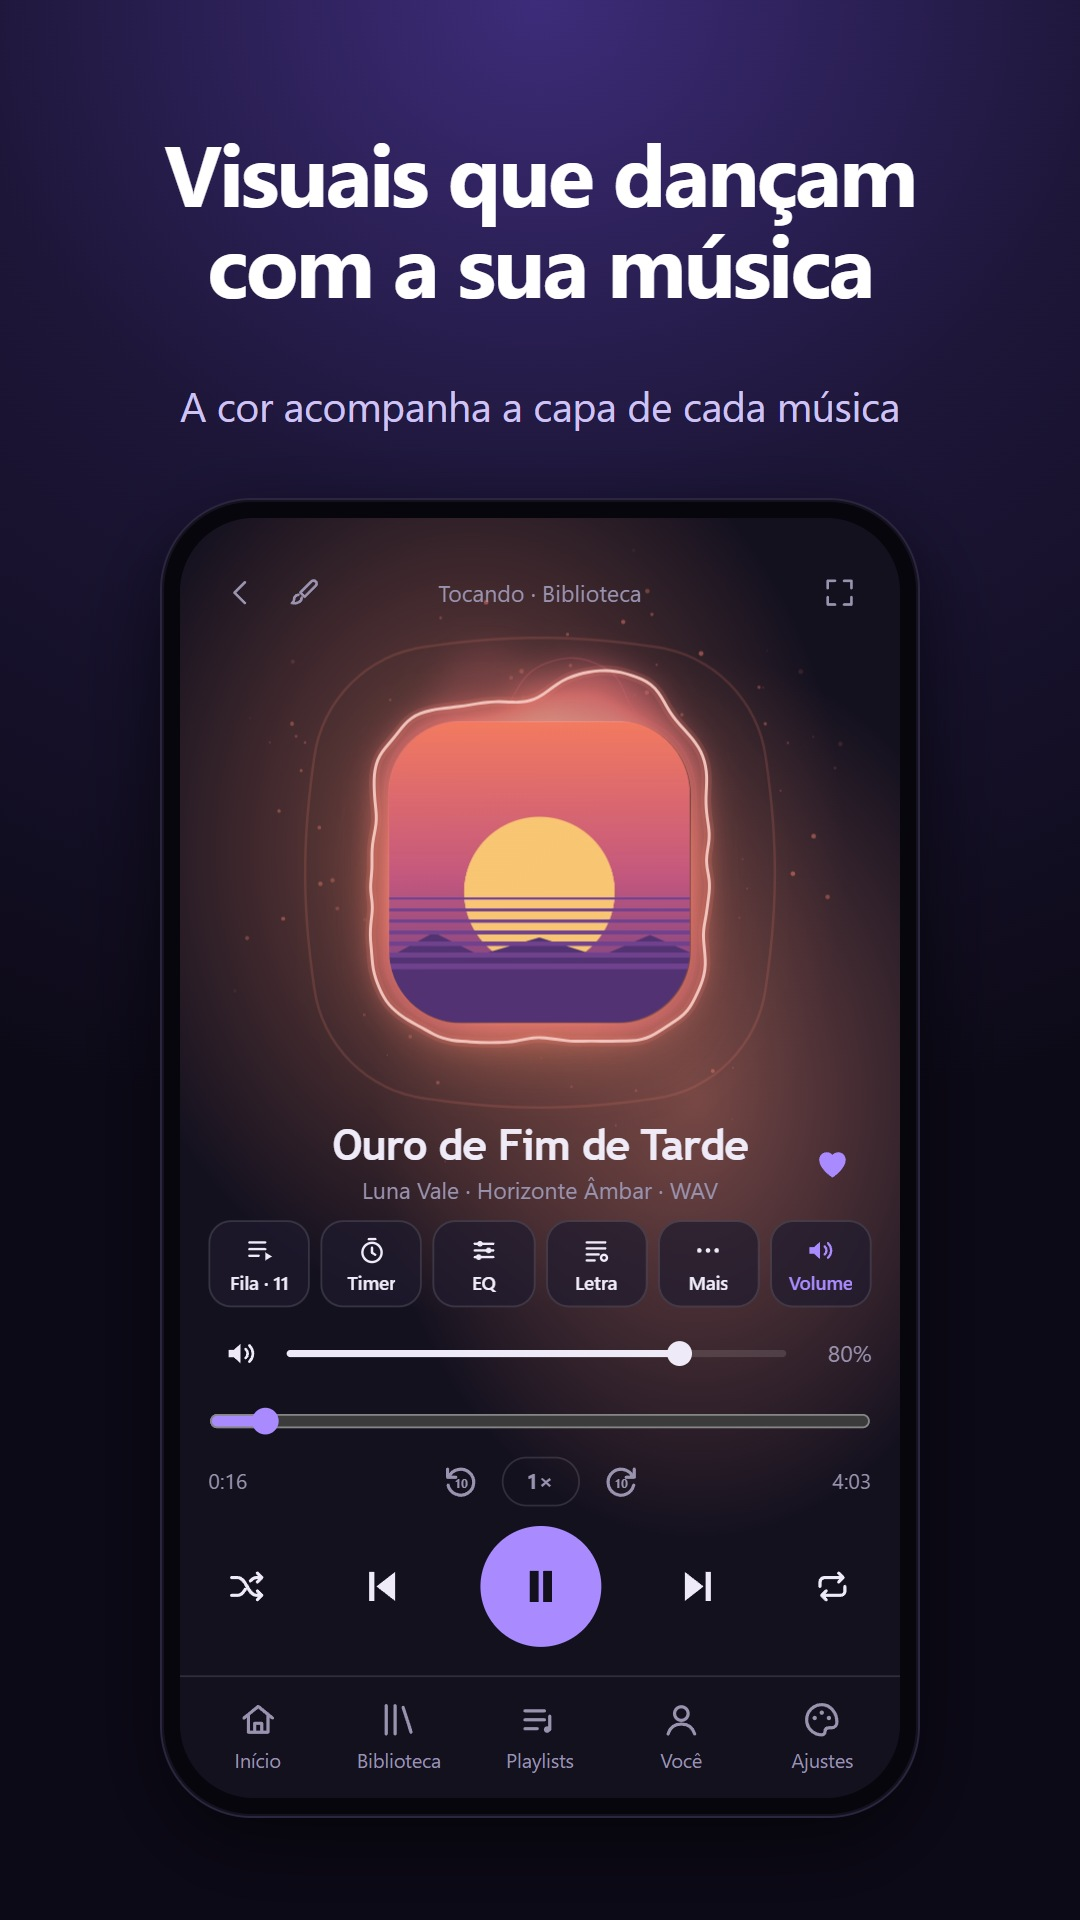
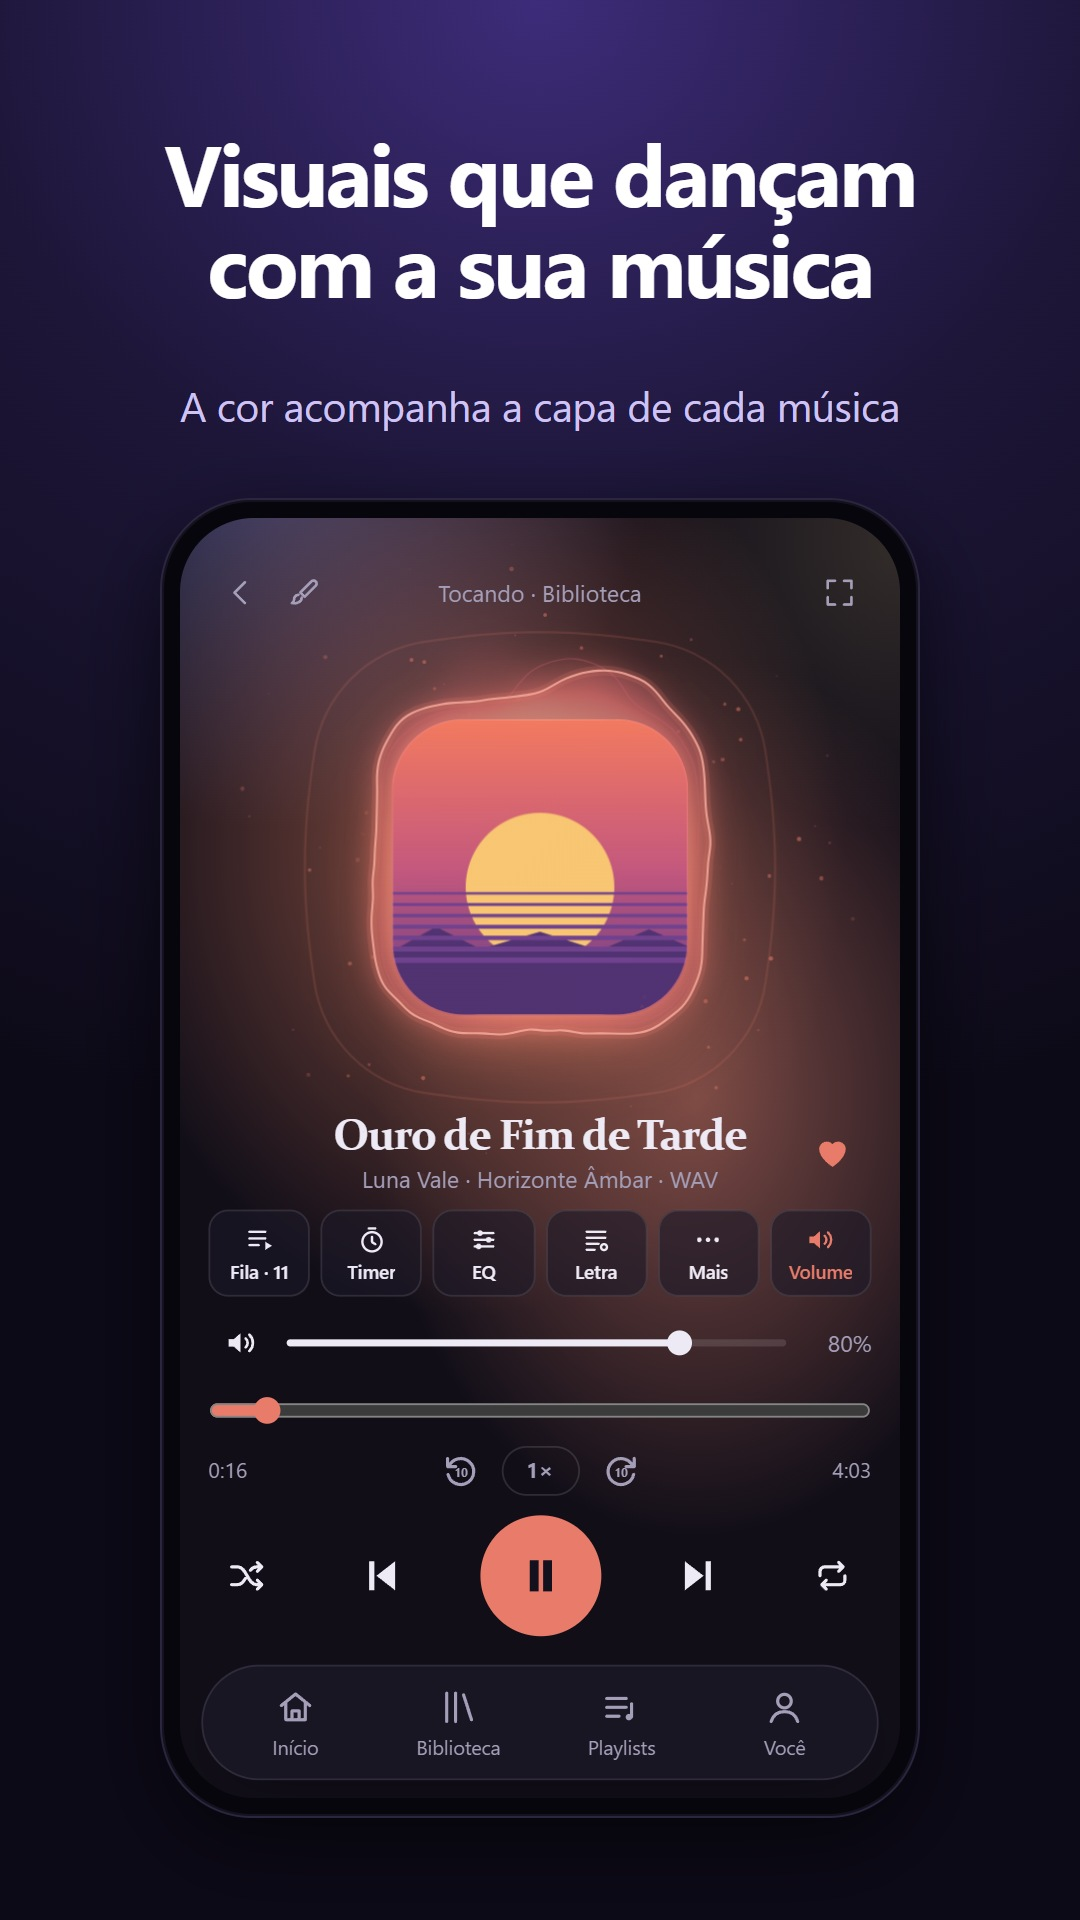
1.26.8: prints da loja com o visual novo e cartão Favoritas com o texto em duas linhas

diff --git a/css/app.css b/css/app.css
@@ -586,3 +586,5 @@ nav button[data-v="temas"]{display:none}
 @property --cap-accent{syntax:"<color>";inherits:true;initial-value:#9C9BF5}
 @property --cap-accent2{syntax:"<color>";inherits:true;initial-value:#E3C98A}
 :root[data-capatroca="1"]{transition:--accent .6s ease,--accent2 .6s ease,--brilho .6s ease,--cap-accent .6s ease,--cap-accent2 .6s ease}
+/* Cartão Favoritas do Início: nome e contagem em linhas separadas (estavam grudados: "Favoritas3 músicas") */
+.ini-fav .grow>span{display:block}
